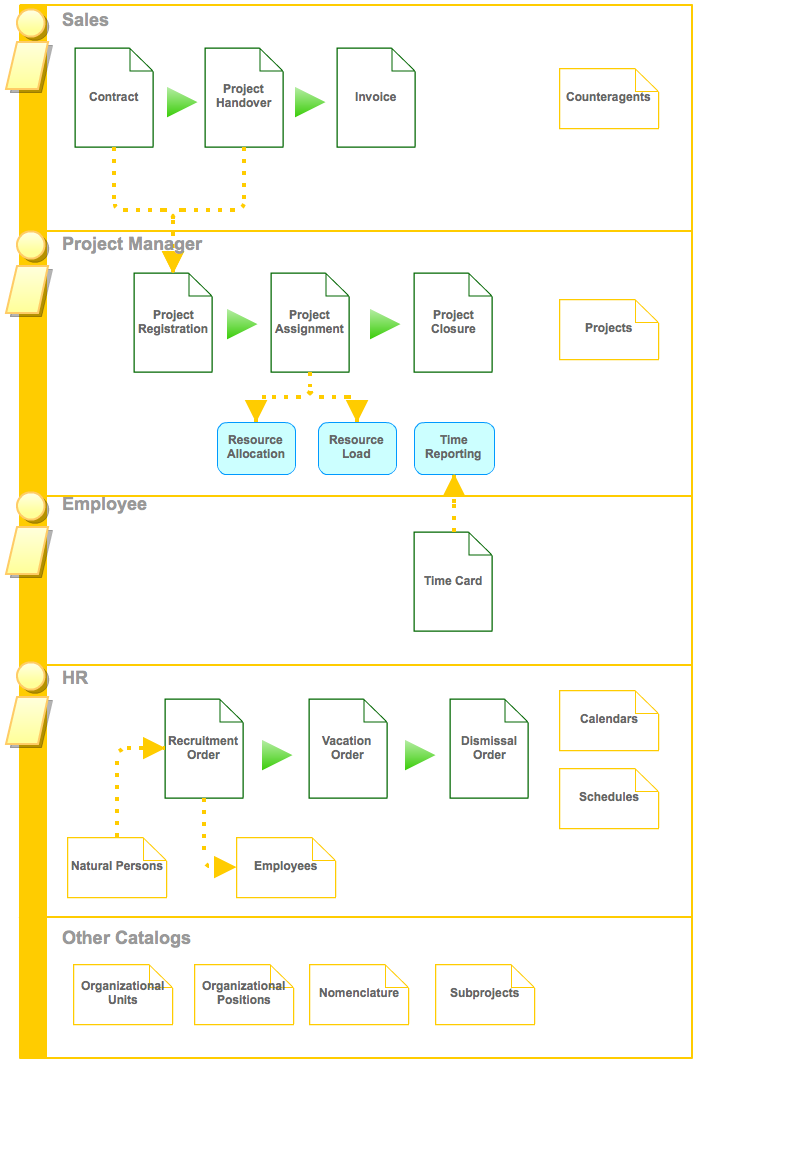
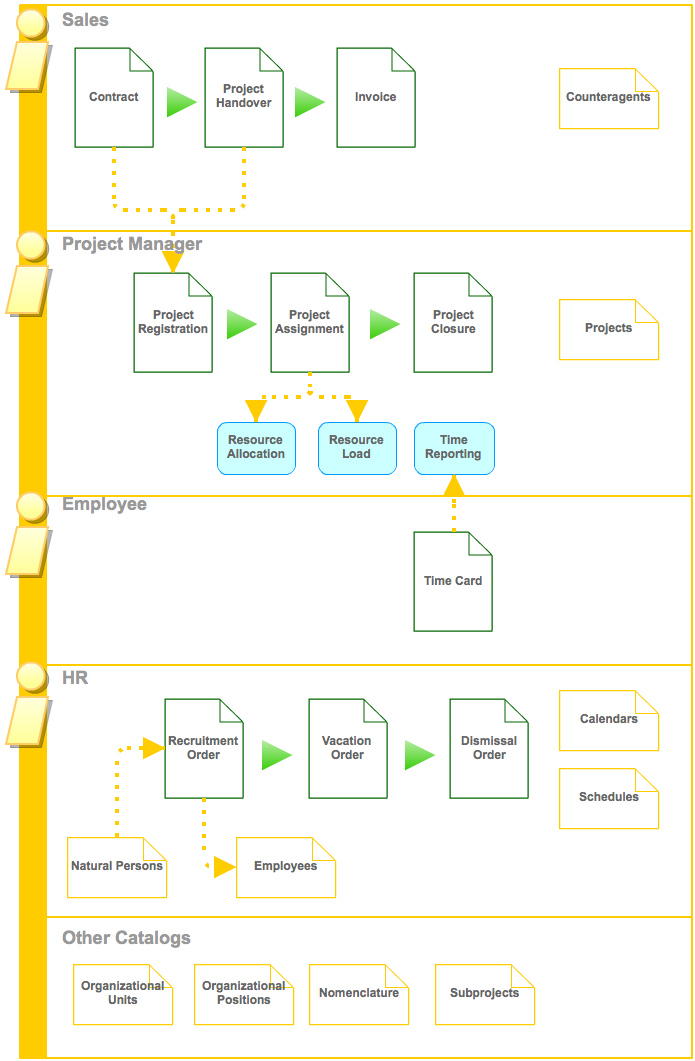
[OiltecIntranet] Updated Desktop

diff --git a/AppliedSolutions/OiltecIntranet/MindTouch/Templates/Other/Desktop.php b/AppliedSolutions/OiltecIntranet/MindTouch/Templates/Other/Desktop.php
@@ -9,7 +9,7 @@
    var dir = params.dir ?? '/';
 }}
 <div class="oe_oiltec_intranet_desktop">
-  <img src="{{ dir..'/Resources/Desktop/oiltec_intranet_desktop.png' }}" width="792" height="1158" alt="Desktop" usemap="#OiltecIntranetDesktop">
+  <img src="{{ dir..'/Resources/Desktop/oiltec_intranet_desktop.png' }}" width="695" height="1061" alt="Desktop" usemap="#OiltecIntranetDesktop">
   <map name="OiltecIntranetDesktop">
     <!-- Sales -->
     <area shape="poly" coords="74,46, 131,46, 154,70, 154,148, 74,148"   href="" onclick="openPopup(this, 'documents', 'Contract', 'EditForm'); return false;" alt="Contract">
